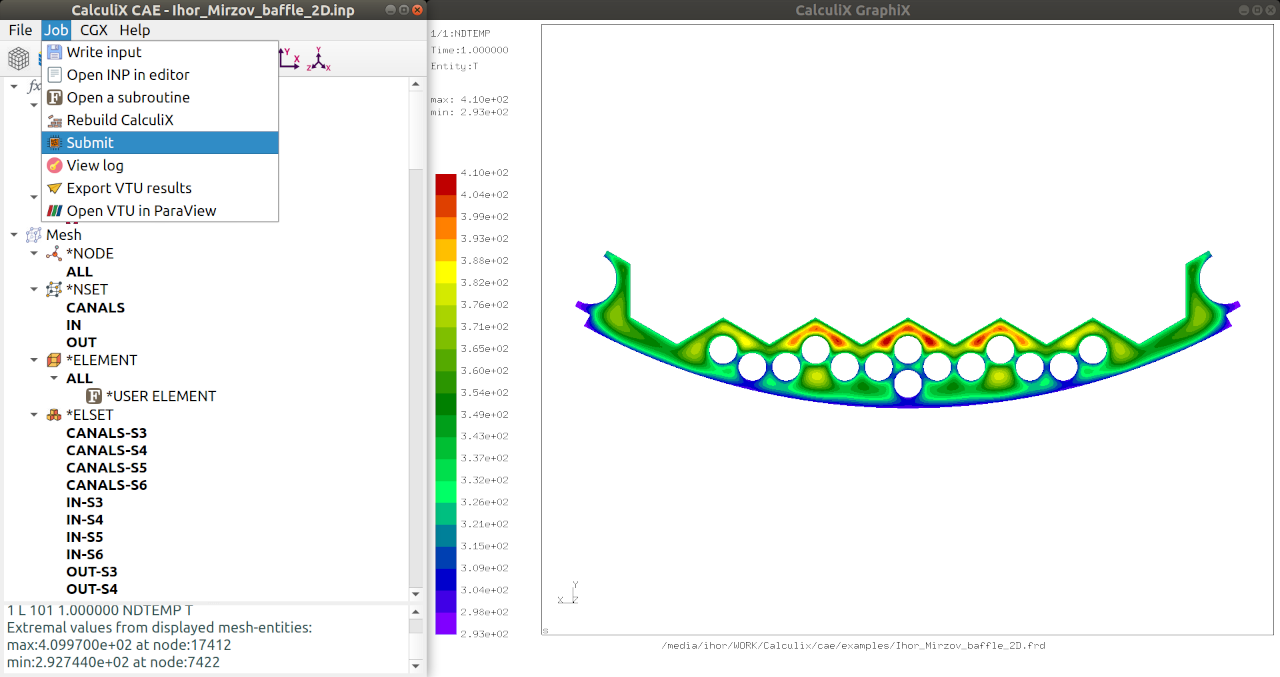
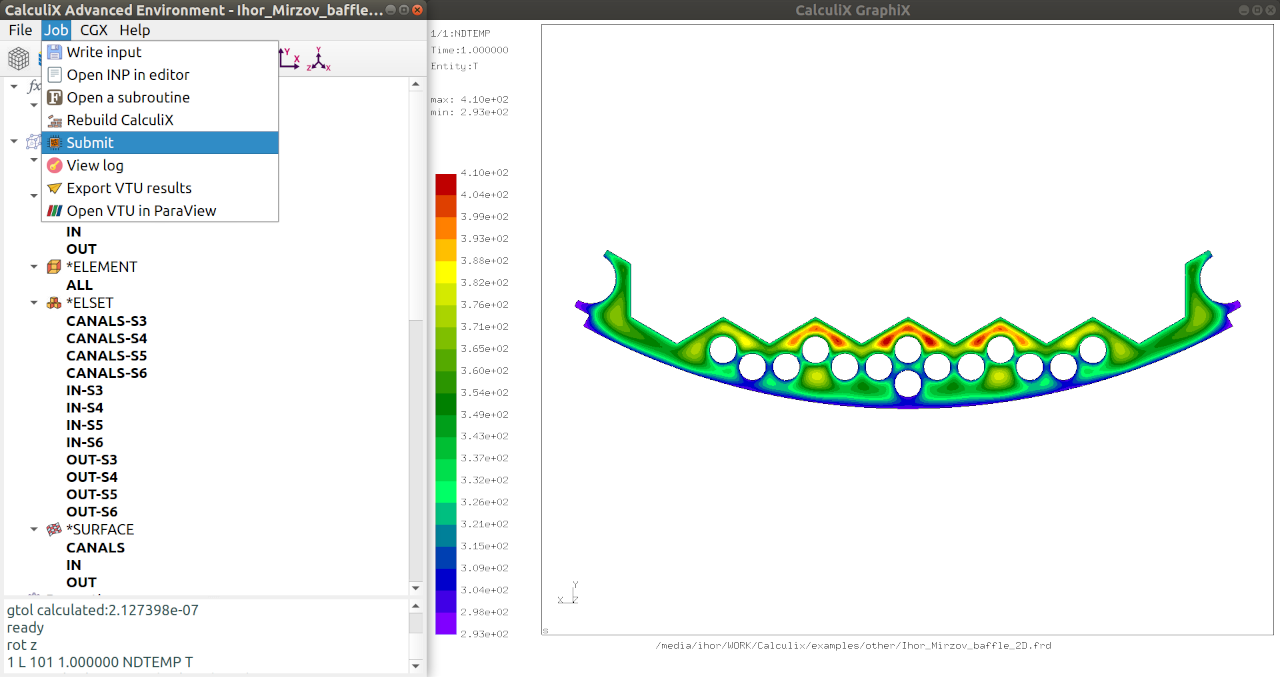
Release 0.8.0

diff --git a/README.md b/README.md
@@ -131,7 +131,7 @@ Please, you may:
 
 # For developers
 
-Suppose you already have [Python 3](https://www.python.org/downloads/). Open terminal in CAE directory and install dependancies with command:
+Suppose you already have [Python 3](https://www.python.org/downloads/). Open terminal in CAE directory and install dependencies with command:
 
     pip3 install -r requirements.txt
 
@@ -166,51 +166,71 @@ In Windows to work with subroutines and to recompile CalculiX sources from CAE y
 
 # What's new
 
-+ Stdout reading class for better logging of child processes.
+[Materials library](https://github.com/calculix/examples/tree/master/materials)!
 
-+ Logging of how the app is running: from source code or as binary.
+Do not skip comments while parsing the INP file. Keep comments on file save.
 
-+ Improved logging for mesh and keywords parsers.
+Replaced converters binaries with source code version. It reduced distro weight from 15 to 30 MB. 
 
-+ Switch off redundant logging in keyword dialog.
+Both source code and binaries could be started via cae.sh and cae.bat.
 
-+ Flush CGX buffer on startup.
-
-+ Paint CGX logs with #darkslategray.
-
-+ Filter accidental key presses on CGX.
-
-+ Kill old output reading threads on file import - app doesn't die on logs scrolling.
-
+Interface and usability:
++ Notify on job completion
 + treeView: collapse/expand items with left/right buttons.
-
-+ Fixed problem with QFileDialog visibility.
-
-+ Menu Help: README.pdf.
-
-+ New menu - "CGX" devoted to GraphiX.
-
++ Run CGX without cmd in Windows
 + Do not start CGX with no mesh.
-
 + Allow to start CAE with empty model.
++ Paint CGX logs with #darkslategray.
++ Updated a few images, brighter logo icon.
++ Menu Help: README.pdf.
++ New menu - "CGX" - devoted to GraphiX. Moved CGX actions from Job to CGX menu.
 
-+ No psutil dependency.
+Settings:
++ New setting "Start CGX by default".
++ Made Gedit default text editor for Linux.
++ Now a user can't choose path to CGX and CCX - only embed version should be used.
 
-+ Log window list on error getting WID.
+Default model - default.inp:
++ Updated surfaces.
++ Added some comments.
 
-+ Test for KOM class.
-
-+ Ignore comments on INP import.
-
-+ Materials library: https://github.com/calculix/examples/tree/master/materials
-
+Bugfixes:
++ Allow app to run even without WIDs. Now CAE should always start.
++ Stop all stdout reading threads on file import - app doesn't die on logs scrolling.
++ Fixed hiding Import dialog (QFileDialog visibility).
 + Fixed Jobs. Now they run via thread and doesn't block GUI.
-
 + Fixed small bug in surface parser.
++ Fixed Job -> open_paraview.
++ Fixed command CGX -> Paint sets.
 
-+ Updated surfaces in the default.inp
+Logging system:
++ Stdout reading class for better logging of child processes.
++ Logging of how the app is running: from source code or as binary.
++ Improved logging for mesh and keywords parsers.
++ Switch off redundant logging in keyword dialog.
++ Flush CGX buffer on startup - it enforces logging to start without unwanted delay.
++ Log window list on error getting WID.
++ Allow to log empty lines - for some space between messages.
 
-+ Workaround for iso view in Windows.
+CGX:
++ Correctly kill CGX in Windows.
++ Filter accidental key presses on CGX.
++ Reduced methods dependencies in cgx.py.
++ Register additional colors in CGX on startup via .fbd commands.
++ Workaround for iso view in Windows (with .fbd commands).
++ Slightly more precise colors for surfaces and sets.
+
+General code improvements:
++ Simplified stop_stdout_readers().
++ Job class without initialize() method.
++ Better window match by title.
++ Submit job via thread.
++ No psutil dependency.
++ Make KOM independent on Path and Settings.
++ Renamed KOM items to follow PEP8.
++ Correctly initialize window's parent class.
++ New save method for Settings.
++ New tests for KOM class and Importer. Updated test for mesh parser.
 
 <br/><br/>
 
@@ -218,7 +238,6 @@ In Windows to work with subroutines and to recompile CalculiX sources from CAE y
 
 # TODO
 
-- During keyword's edit parse arguments and pass them to Dialog.
 - Implement keyword dialog as tab on main window.
 - Settings Dialog: add buttons to Pathes to open files.
 
@@ -249,6 +268,6 @@ In Windows to work with subroutines and to recompile CalculiX sources from CAE y
 
 - Is it possible to make release binaries without pyinstaller?
 
-- Run CAE even if can't get CGX WID. Thread for periodic checking of CGX WID. Connect/disconnect CGX automatically in the background.
+- Thread for periodic checking of CGX WID. Connect/disconnect CGX automatically in the background.
 
 - https://mechanicalhacks.wordpress.com/2011/03/29/building-calculix-to-run-native-on-64-bit-windows/
